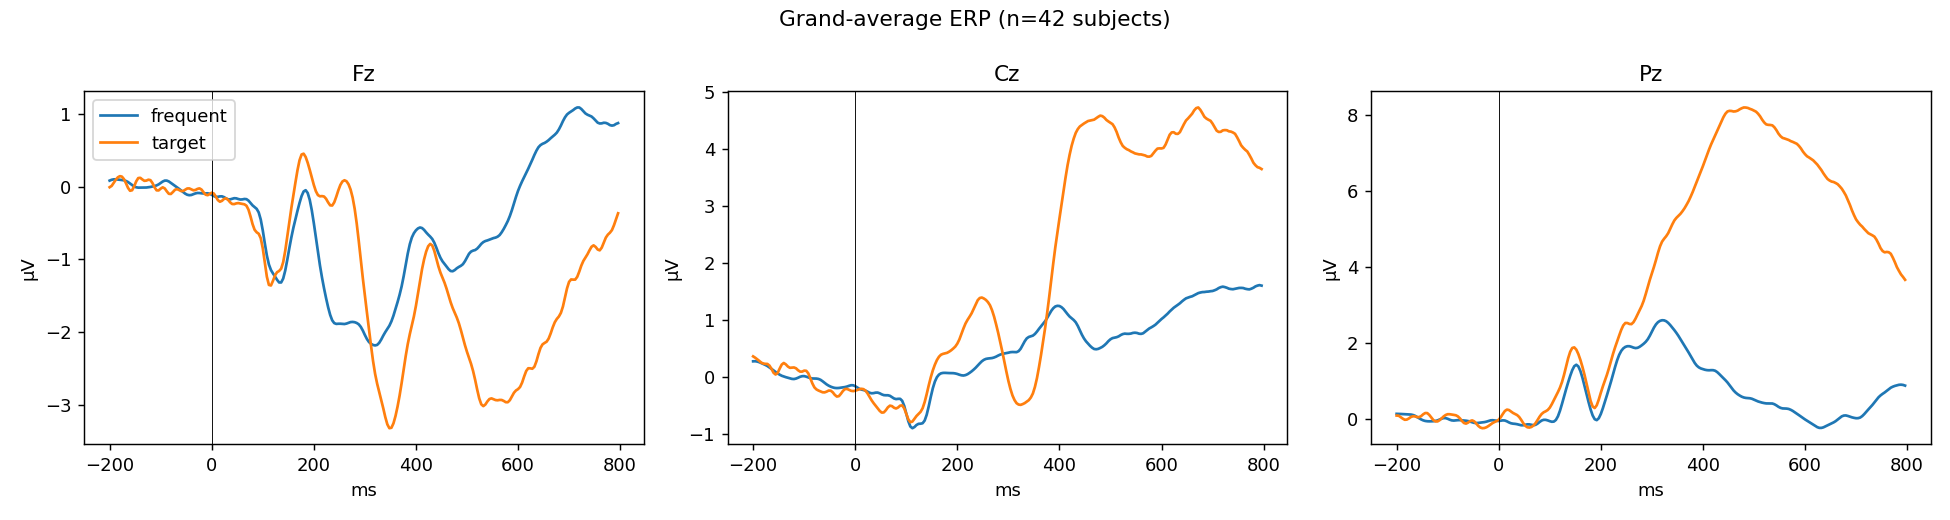
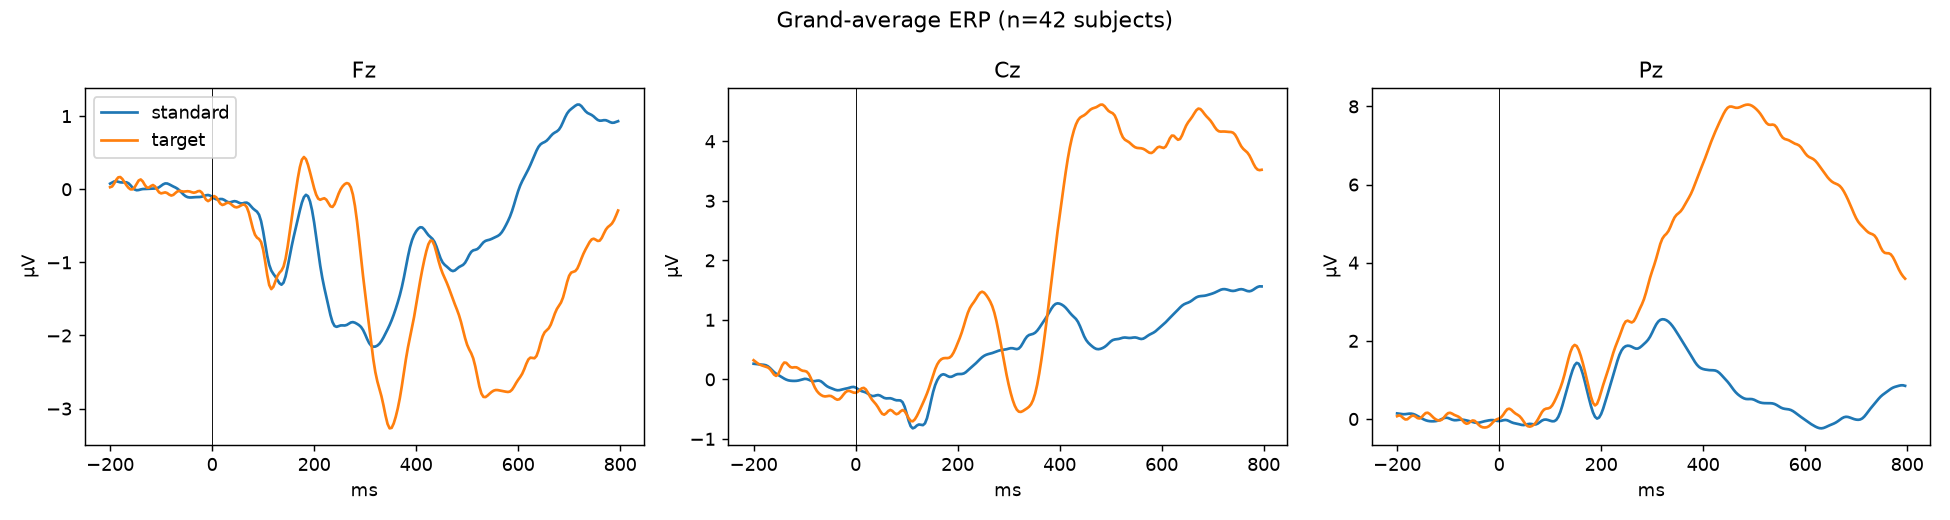
Updated the model to run exclusively on the 'target' and 'standard' sets, and added 6 metrics: ROC-AUC, Balanced Accuracy, Recall (Target), Precision (Target), Macro F1, and Accuracy.

diff --git a/src/aggregate.py b/src/aggregate.py
@@ -1,39 +1,52 @@
-"""Aggregate results -> results/summary.md + results/comparison.png"""
-import json, os, numpy as np, matplotlib; matplotlib.use("Agg"); import matplotlib.pyplot as plt
+"""Aggregate results (standard vs target) -> results/summary.md + results/comparison.png + results/summary.csv"""
+import json, os, glob, numpy as np, matplotlib; matplotlib.use("Agg"); import matplotlib.pyplot as plt
 from scipy.stats import wilcoxon
+from common import METRICS
 R = "../results/"
 def ld(f): return json.load(open(R + f)) if os.path.exists(R + f) else {}
-ml = ld("ml_within.json"); import glob
 def merge(p):
     o = {}
-    for f in glob.glob(R + p):
+    for f in sorted(glob.glob(R + p)):
         for n, d in json.load(open(f)).items(): o.setdefault(n, {}).update(d)
     return o
-dlw = merge("dl_within_*.json"); dll = merge("dl_loso_*.json")
-tab = {}   # name -> (setting) -> {sub: (ba, auc)}
+ml = ld("ml_within.json"); dlw = merge("dl_within_*.json"); dll = merge("dl_loso_*.json")
+ML_NAMES = sorted({n for d in ml.values() for n in d})
+tab = {}   # name -> setting -> {sub: {metric: value}}
 for s, d in ml.items():
     for n, v in d.items(): tab.setdefault(n, {}).setdefault("within", {})[int(s)] = v
 for setting, dd in (("within", dlw), ("LOSO", dll)):
     for n, d in dd.items():
         for s, v in d.items(): tab.setdefault(n, {}).setdefault(setting, {})[int(s)] = v
-lines = ["| Model | Setting | N | Balanced acc (mean±SD) | AUC (mean±SD) |", "|---|---|---|---|---|"]
+def arr(r, m): return np.array([v[m] for v in r.values()])
+
+lines = ["| Model | Type | Setting | N | " + " | ".join(METRICS) + " |", "|---|---|---|---|" + "---|" * len(METRICS)]
+csv = ["model,type,setting,n," + ",".join(f"{m} mean,{m} sd" for m in METRICS)]
 for n, d in tab.items():
     for st, r in d.items():
-        a = np.array(list(r.values())); lines.append(f"| {n} | {st} | {len(a)} | {a[:,0].mean():.3f} ± {a[:,0].std():.3f} | {a[:,1].mean():.3f} ± {a[:,1].std():.3f} |")
+        typ = "ML" if n in ML_NAMES else "DL"
+        lines.append(f"| {n} | {typ} | {st} | {len(r)} | " + " | ".join(f"{arr(r,m).mean():.3f} ± {arr(r,m).std():.3f}" for m in METRICS) + " |")
+        csv.append(f"{n},{typ},{st},{len(r)}," + ",".join(f"{arr(r,m).mean():.4f},{arr(r,m).std():.4f}" for m in METRICS))
 within = {n: d["within"] for n, d in tab.items() if "within" in d}
-if within:
-    best_ml = max([n for n in within if n in (ml[next(iter(ml))] if ml else {})], key=lambda n: np.mean([v[1] for v in within[n].values()]), default=None)
-    best_dl = max([n for n in within if n in dlw], key=lambda n: np.mean([v[1] for v in within[n].values()]), default=None)
-    lines += ["", f"Best ML (within, AUC): {best_ml}; best DL (within, AUC): {best_dl}"]
-    if best_ml and best_dl:
-        s = sorted(set(within[best_ml]) & set(within[best_dl]))
-        for k, m in ((0, "balanced acc"), (1, "AUC")):
-            a = [within[best_dl][i][k] for i in s]; b = [within[best_ml][i][k] for i in s]
-            lines.append(f"Wilcoxon {best_dl} vs {best_ml} ({m}, n={len(s)}): mean diff {np.mean(a)-np.mean(b):+.3f}, p={wilcoxon(a, b).pvalue:.4g}")
-open(R + "summary.md", "w").write("\n".join(lines)); print("\n".join(lines))
-fig, ax = plt.subplots(figsize=(10, 4)); i = 0; ticks = []
-for n, d in tab.items():
-    for st, r in d.items():
-        v = [x[1] for x in r.values()]; ax.boxplot(v, positions=[i], widths=.6, showfliers=False); ticks.append(f"{n}\n{st}"); i += 1
-ax.set_xticks(range(i)); ax.set_xticklabels(ticks, fontsize=6, rotation=45); ax.set_ylabel("AUC per subject"); ax.axhline(.5, c="gray", ls=":")
-plt.tight_layout(); plt.savefig(R + "comparison.png", dpi=130)
+auc = lambda n: arr(within[n], "ROC-AUC").mean()
+best_ml = max([n for n in within if n in ML_NAMES], key=auc, default=None)
+best_dl = max([n for n in within if n not in ML_NAMES], key=auc, default=None)
+lines += ["", f"Best ML (within, ROC-AUC): {best_ml}; best DL (within, ROC-AUC): {best_dl}", ""]
+if best_ml and best_dl:
+    s = sorted(set(within[best_ml]) & set(within[best_dl]))
+    lines += [f"Wilcoxon signed-rank, {best_dl} vs {best_ml} (n={len(s)} subjects):", "",
+              "| Metric | mean diff (DL - ML) | p |", "|---|---|---|"]
+    for m in METRICS:
+        a = [within[best_dl][i][m] for i in s]; b = [within[best_ml][i][m] for i in s]
+        try: p = f"{wilcoxon(a, b).pvalue:.3g}"
+        except ValueError: p = "n/a"
+        lines.append(f"| {m} | {np.mean(a)-np.mean(b):+.3f} | {p} |")
+open(R + "summary.md", "w", encoding="utf-8").write("\n".join(lines) + "\n")
+open(R + "summary.csv", "w", encoding="utf-8").write("\n".join(csv) + "\n"); print("\n".join(lines))
+
+fig, axs = plt.subplots(2, 3, figsize=(16, 8)); keys = [(n, st) for n, d in tab.items() for st in d]
+for ax, m in zip(axs.ravel(), METRICS):
+    ax.boxplot([arr(tab[n][st], m) for n, st in keys], showfliers=False)
+    ax.set_xticks(range(1, len(keys) + 1)); ax.set_xticklabels([f"{n}" + ("" if st == "within" else f"\n{st}") for n, st in keys], fontsize=7, rotation=45, ha="right")
+    ax.set_title(m); ax.grid(axis="y", alpha=.3)
+    if m in ("ROC-AUC", "Balanced Accuracy"): ax.axhline(.5, c="gray", ls=":")
+plt.suptitle("Standard vs Target, within-subject 5-fold CV (per-subject distribution)"); plt.tight_layout(); plt.savefig(R + "comparison.png", dpi=130)

diff --git a/src/preprocess.py b/src/preprocess.py
@@ -1,37 +1,48 @@
 """Preprocess one subject of the oddball task -> epochs npz.
-Pipeline: load BrainVision -> notch 50 Hz -> band-pass 0.1-40 Hz -> avg reference
--> ICA (eye-blink removal, Fp1/Fp2 as EOG proxy) -> epoch [-0.2, 0.8] s, baseline [-0.2,0]
--> resample to 250 Hz.  Labels: 0=standard(frequent) 1=target 2=deviant.
+Pipeline: load BrainVision -> notch 50 Hz -> band-pass 0.1-40 Hz -> resample 250 Hz -> avg reference
+-> ICA (eye-blink removal, Fp1/Fp2 as EOG proxy) -> epoch [-0.2, 0.8] s, baseline [-0.2, 0].
+Labels: 0=standard (S 5), 1=target (S 6), 2=deviant (S 7). Deviant is stored but discarded in common.load,
+so every model is trained/evaluated on standard vs target only.
+(Resampling is done on the continuous data, after the 40 Hz low-pass, to keep RAM usage low.)
 Usage: python preprocess.py SUBJ [SUBJ ...]
+Paths: env EEG_RAW (BIDS root containing sub-XX/eeg/) and EEG_EPOCHS (output folder).
 """
 import sys, os, numpy as np, mne
 mne.set_log_level("WARNING")
-RAW = r"D:\tttk_data\oddball"; OUT = r"D:\tttk_data\epochs"; os.makedirs(OUT, exist_ok=True)
+HERE = os.path.dirname(os.path.abspath(__file__))
+RAW = os.environ.get("EEG_RAW", os.path.join(HERE, "..", "data", "kaggle", "datasets", "trungdttik55",
+                                             "nencki-symfonia-eeg-oddball", "versions", "2", "data"))
+OUT = os.environ.get("EEG_EPOCHS", os.path.join(HERE, "..", "data", "epochs")); os.makedirs(OUT, exist_ok=True)
 EVID = {"Stimulus/S  5": 0, "Stimulus/S  6": 1, "Stimulus/S  7": 2}
+
+def vhdr_path(s):
+    for p in (os.path.join(RAW, s, "eeg", f"{s}_task-oddball_eeg.vhdr"), os.path.join(RAW, s, f"{s}_task-oddball_eeg.vhdr")):
+        if os.path.exists(p): return p
+    raise FileNotFoundError(s)
 
 def run(sub, ica=True):
     s = f"sub-{sub:02d}"
-    raw = mne.io.read_raw_brainvision(f"{RAW}\{s}\{s}_task-oddball_eeg.vhdr", preload=True)
+    raw = mne.io.read_raw_brainvision(vhdr_path(s), preload=True)
     raw.set_montage(mne.channels.make_standard_montage("standard_1005"), on_missing="ignore")
     raw.notch_filter(50.0)
     raw.filter(0.1, 40.0, verbose=False)
+    raw.resample(250)
     raw.set_eeg_reference("average")
     n_ica = 0
     if ica:
         f1 = raw.copy().filter(1.0, None)
-        f1.resample(250)
         m = mne.preprocessing.ICA(n_components=30, method="fastica", random_state=0, max_iter=500)
         m.fit(f1)
         eog = [c for c in ("Fp1", "Fp2") if c in raw.ch_names]
         bad, _ = m.find_bads_eog(f1, ch_name=eog, threshold=3.0)
-        m.exclude = bad; n_ica = len(bad)
+        m.exclude = bad; n_ica = len(bad); del f1
         raw = m.apply(raw)
     ev, ed = mne.events_from_annotations(raw, event_id=EVID)
-    ep = mne.Epochs(raw, ev, ed, tmin=-0.2, tmax=0.8, baseline=(-0.2, 0), preload=True, reject=None)
-    ep.resample(250)
-    X = ep.get_data().astype(np.float32); y = np.array([{0:0,1:1,2:2}[k] for k in ep.events[:, 2]])
-    # map ids back: ed values are already 0/1/2
-    np.savez_compressed(f"{OUT}\{s}.npz", X=X, y=y, ch=np.array(raw.ch_names), sfreq=250, tmin=-0.2, n_ica=n_ica)
+    ep = mne.Epochs(raw, ev, ed, tmin=-0.2, tmax=0.8 - 1 / 250, baseline=(-0.2, 0), preload=True, reject=None)
+    X = ep.get_data().astype(np.float32); y = ep.events[:, 2].astype(int)
+    tmp = os.path.join(OUT, f"tmp_{s}.npz")      # atomic write: readers never see a partial file
+    np.savez_compressed(tmp, X=X, y=y, ch=np.array(raw.ch_names), sfreq=250, tmin=-0.2, n_ica=n_ica)
+    os.replace(tmp, os.path.join(OUT, f"{s}.npz"))
     print(s, X.shape, np.bincount(y), "ICA excluded:", n_ica, flush=True)
 
 if __name__ == "__main__":

diff --git a/src/common.py b/src/common.py
@@ -1,9 +1,31 @@
 import numpy as np, glob, os
-EP = r"D:\tttk_data\epochs"
+from sklearn.metrics import (roc_auc_score, balanced_accuracy_score, recall_score,
+                             precision_score, f1_score, accuracy_score)
+# epochs folder; override with env var EEG_EPOCHS
+EP = os.environ.get("EEG_EPOCHS", os.path.join(os.path.dirname(os.path.abspath(__file__)), "..", "data", "epochs"))
+CLASSES = {0: "standard", 1: "target"}   # only these two stimuli are used; deviant (2) is discarded
+METRICS = ["ROC-AUC", "Balanced Accuracy", "Recall Target", "Precision Target", "Macro F1", "Accuracy"]
+
 def load(sub):
-    d = np.load(f"{EP}\sub-{sub:02d}.npz")
+    d = np.load(os.path.join(EP, f"sub-{sub:02d}.npz"))
     X, y = d["X"], d["y"]
-    k = y != 2                       # frequent (0) vs target (1); drop deviant
-    return X[k], y[k], list(d["ch"]), float(d["sfreq"]), float(d["tmin"])
+    k = np.isin(y, (0, 1))           # keep standard (0) and target (1) only
+    X, y = X[k], y[k].astype(int)
+    assert set(np.unique(y)) == {0, 1}, f"sub-{sub:02d}: unexpected labels {np.unique(y)}"
+    return X, y, list(d["ch"]), float(d["sfreq"]), float(d["tmin"])
+
 def subjects():
-    return sorted(int(os.path.basename(p)[4:6]) for p in glob.glob(EP + "\sub-*.npz"))
+    return sorted(int(os.path.basename(p)[4:6]) for p in glob.glob(os.path.join(EP, "sub-*.npz")))
+
+def metrics(y, p, thr=.5):
+    """y: true labels (1 = target), p: predicted probability of target."""
+    yh = (np.asarray(p) > thr).astype(int)
+    return {"ROC-AUC": roc_auc_score(y, p),
+            "Balanced Accuracy": balanced_accuracy_score(y, yh),
+            "Recall Target": recall_score(y, yh, pos_label=1, zero_division=0),
+            "Precision Target": precision_score(y, yh, pos_label=1, zero_division=0),
+            "Macro F1": f1_score(y, yh, average="macro", zero_division=0),
+            "Accuracy": accuracy_score(y, yh)}
+
+def mean_metrics(rows):
+    return {m: float(np.mean([r[m] for r in rows])) for m in METRICS}

diff --git a/src/pipeline_kaggle.py b/src/pipeline_kaggle.py
@@ -1,0 +1,29 @@
+"""Download the Kaggle mirror of the Nencki-Symfonia oddball data (public, kagglehub, no login needed)
+and preprocess each subject as soon as its files are complete (download runs ahead in a thread).
+Usage: python pipeline_kaggle.py [subjects...]     (default: 1..42)"""
+import os, sys, threading, queue, subprocess
+HERE = os.path.dirname(os.path.abspath(__file__))
+os.environ.setdefault("KAGGLEHUB_CACHE", os.path.join(HERE, "..", "data", "kaggle"))
+import kagglehub
+DS = "trungdttik55/nencki-symfonia-eeg-oddball"
+EP = os.environ.get("EEG_EPOCHS", os.path.join(HERE, "..", "data", "epochs"))
+subs = [int(a) for a in sys.argv[1:]] or list(range(1, 43))
+todo = [s for s in subs if not os.path.exists(os.path.join(EP, f"sub-{s:02d}.npz"))]
+q = queue.Queue(maxsize=2)          # at most 2 subjects downloaded ahead of preprocessing
+
+def downloader():
+    for s in todo:
+        for ext in ("eeg.vhdr", "eeg.vmrk", "events.tsv", "eeg.eeg"):
+            p = f"data/sub-{s:02d}/eeg/sub-{s:02d}_task-oddball_{ext}"
+            for attempt in range(5):
+                try: kagglehub.dataset_download(DS, path=p); break
+                except Exception as e: print("retry", p, e, flush=True)
+            else: raise SystemExit(f"failed {p}")
+        print("downloaded", s, flush=True); q.put(s)
+    q.put(None)
+
+threading.Thread(target=downloader, daemon=True).start()
+while (s := q.get()) is not None:
+    r = subprocess.run([sys.executable, os.path.join(HERE, "preprocess.py"), str(s)])
+    if r.returncode: print("PREPROCESS FAILED", s, flush=True)
+print("ALL PREPROCESSED", flush=True)

diff --git a/src/dl.py b/src/dl.py
@@ -39,12 +39,12 @@ def fit_predict(name, Xtr, ytr, Xte, epochs=40, lr=1e-3, seed=0):
         if s > best: best, bst = s, copy.deepcopy(model.state_dict())
     model.load_state_dict(bst)
     return prob(model, T(Xte)), model
-def score(y, p): return balanced_accuracy_score(y, p > .5), roc_auc_score(y, p)
+def score(y, p): return {k: float(v) for k, v in metrics(y, p).items()}
 def within(name, sub):
     X, y, *_ = load(sub); r = []
     for tr, te in StratifiedKFold(5, shuffle=True, random_state=0).split(X, y):
-        p, _ = fit_predict(name, X[tr], y[tr], X[te]); r.append(score(y[te], p))
-    return tuple(np.mean(r, 0))
+        p, _ = fit_predict(name, X[tr], y[tr], X[te]); r.append(metrics(y[te], p))
+    return mean_metrics(r)
 def loso(name, test, subs):
     d = {s: load(s) for s in subs}
     Xtr = np.concatenate([d[s][0] for s in subs if s != test]); ytr = np.concatenate([d[s][1] for s in subs if s != test])
@@ -57,5 +57,5 @@ if __name__ == "__main__":
         for s in subs:
             if str(s) in res.get(n, {}): continue
             res.setdefault(n, {})[str(s)] = within(n, s) if mode == "within" else loso(n, s, subjects())
-            print(mode, n, s, tuple(round(float(v), 3) for v in res[n][str(s)]), flush=True)
+            print(mode, n, s, {k: round(v, 3) for k, v in res[n][str(s)].items()}, flush=True)
             json.dump(res, open(F, "w"))

diff --git a/src/ml_baseline.py b/src/ml_baseline.py
@@ -44,16 +44,17 @@ MODELS = {
 def evaluate(sub, names=MODELS):
     X, y, *_ = load(sub); X = X.astype(np.float64); out = {}
     for n in names:
-        ba, auc = [], []
+        rows = []
         for tr, te in StratifiedKFold(5, shuffle=True, random_state=0).split(X, y):
             m = MODELS[n]().fit(X[tr], y[tr]); p = m.predict_proba(X[te])[:, 1]
-            ba.append(balanced_accuracy_score(y[te], p > .5)); auc.append(roc_auc_score(y[te], p))
-        out[n] = (float(np.mean(ba)), float(np.mean(auc)))
+            rows.append(metrics(y[te], p))
+        out[n] = mean_metrics(rows)
     return out
 if __name__ == "__main__":
     subs = [int(a) for a in sys.argv[1:]] or subjects()
     import os; F = "../results/ml_within.json"; res = json.load(open(F)) if os.path.exists(F) else {}
     for s in subs:
         if str(s) in res: continue
-        res[str(s)] = evaluate(s); print(s, {k: tuple(round(v, 3) for v in x) for k, x in res[str(s)].items()}, flush=True)
+        res[str(s)] = evaluate(s)
+        print(s, {k: (round(x["ROC-AUC"], 3), round(x["Balanced Accuracy"], 3)) for k, x in res[str(s)].items()}, flush=True)
         json.dump(res, open("../results/ml_within.json", "w"))

diff --git a/src/run_all.py b/src/run_all.py
@@ -1,0 +1,18 @@
+"""Run everything (standard vs target only) and keep resuming until all 42 subjects are evaluated.
+Can be started while pipeline_kaggle.py is still preprocessing: each pass picks up newly finished subjects.
+Usage (from src/): python run_all.py"""
+import subprocess, sys, time, os
+from common import subjects
+N, MODELS = 42, ["EEGNet", "Shallow", "Deep4", "Inception", "Conformer"]
+R = os.path.join("..", "results"); os.makedirs(R, exist_ok=True)
+def run(args, log):
+    with open(os.path.join(R, log), "a", encoding="utf-8") as f:
+        subprocess.run([sys.executable, "-u"] + args, stdout=f, stderr=subprocess.STDOUT)
+while True:
+    n = len(subjects()); print(time.strftime("%H:%M"), "pass with", n, "subjects", flush=True)
+    run(["ml_baseline.py"], "ml.log")
+    for m in MODELS: run(["dl.py", "within", m], "dl_within.log")
+    if n >= N: break
+    while len(subjects()) == n: time.sleep(60)
+run(["erp_plot.py"], "erp.log"); run(["aggregate.py"], "aggregate.log")
+print("ALLDONE", flush=True)

diff --git a/src/erp_plot.py b/src/erp_plot.py
@@ -9,7 +9,7 @@ g = {c: np.mean(R[c], 0) for c in R}
 fig, ax = plt.subplots(1, 3, figsize=(15, 4))
 for i, name in enumerate(["Fz", "Cz", "Pz"]):
     j = ch.index(name)
-    for c, lab in ((0, "frequent"), (1, "target")): ax[i].plot(t * 1e3, g[c][j] * 1e6, label=lab)
+    for c, lab in ((0, "standard"), (1, "target")): ax[i].plot(t * 1e3, g[c][j] * 1e6, label=lab)
     ax[i].axvline(0, c="k", lw=.5); ax[i].set_title(name); ax[i].set_xlabel("ms"); ax[i].set_ylabel("µV")
 ax[0].legend(); plt.suptitle(f"Grand-average ERP (n={len(subs)} subjects)"); plt.tight_layout()
 plt.savefig("../results/erp.png", dpi=130)

diff --git a/report.md b/report.md
@@ -1,0 +1,81 @@
+# Báo cáo: Phân loại đơn thử EEG – kích thích **Standard vs Target** (Nencki-Symfonia, oddball 3 kích thích)
+
+
+## 1. Mục tiêu
+Phân loại từng thử (single-trial) EEG thành **standard** hoặc **target** trong oddball.
+So với phiên bản trước, lần này:
+- **Chỉ dùng 2 loại kích thích standard và target.** Deviant/distractor bị loại khỏi toàn bộ huấn luyện và đánh giá; nhãn được kiểm tra chặt trong `common.load`.
+- Báo cáo đủ **6 chỉ số**: ROC-AUC, Balanced Accuracy, Recall Target, Precision Target, Macro F1, Accuracy.
+- Chạy lại **toàn bộ 10 mô hình**: 5 ML và 5 DL.
+
+## 2. Dữ liệu
+- Nguồn: Nencki-Symfonia EEG/ERP (GigaDB 100990, Dzianok et al., *GigaScience* 2022), bản mirror trên Kaggle `trungdttik55/nencki-symfonia-eeg-oddball` (định dạng BIDS, BrainVision).
+- 42 người tham gia, 127 kênh, tần số lấy mẫu 1000 Hz.
+- Mã sự kiện: `S 5` = standard, `S 6` = target, `S 7` = deviant (bỏ).
+- Mỗi người thường có **498 standard + 81 target** (tỉ lệ ≈ 6,1 : 1). Ngoại lệ: sub-23 có 517/86, sub-24 có 497/81, sub-37 có 497/81, sub-38 có 583/96.
+
+## 3. Tiền xử lý (`src/preprocess.py`)
+1. Lọc chặn 50 Hz, lọc thông dải 0,1–40 Hz.
+2. Hạ mẫu xuống 250 Hz. Bước này làm trên dữ liệu liên tục, sau bộ lọc 40 Hz, để tiết kiệm RAM.
+3. Tham chiếu trung bình (average reference).
+4. ICA (FastICA, 30 thành phần, fit trên bản lọc ≥ 1 Hz). Thành phần chớp mắt được phát hiện theo tương quan với Fp1/Fp2 và loại bỏ; trung bình khoảng 2 thành phần mỗi người.
+5. Cắt epoch −200…796 ms (250 mẫu), hiệu chỉnh baseline −200…0 ms.
+
+ERP trung bình toàn nhóm (n = 42) cho thấy rõ sóng **P300** với target ở vùng đỉnh–trung tâm. Ở Pz, chênh lệch target − standard trong cửa sổ 300–500 ms là **+4,97 µV**.
+
+![ERP](results/erp.png)
+
+## 4. Mô hình
+| Nhóm | Mô hình | Đầu vào / đặc trưng |
+|---|---|---|
+| ML | LDA (shrinkage) | Biên độ trung bình theo các cửa sổ 50 ms (0–800 ms) × 127 kênh, chuẩn hoá z |
+| ML | SVM-RBF (class_weight=balanced) | như trên |
+| ML | Logistic Regression L2 (C=0,01, balanced) | như trên |
+| ML | Random Forest (300 cây, balanced) | như trên |
+| ML | xDAWN + Riemann (tangent space) + LR | PCA không gian 60 chiều → xDAWN covariance (4 bộ lọc) → tangent space |
+| DL | EEGNet, ShallowFBCSPNet, Deep4Net, EEG-Inception-ERP, EEG-Conformer (braindecode 2.0) | Tín hiệu thô đã z-score theo kênh; AdamW (lr 1e-3), 40 epoch, cross-entropy có trọng số lớp, chọn epoch theo AUC trên 15% tập validation tách từ tập huấn luyện |
+
+**Giao thức đánh giá:** trong từng người (*within-subject*), Stratified 5-fold CV (seed 0). Các chỉ số được tính trên từng fold, lấy trung bình 5 fold cho mỗi người, rồi báo cáo mean ± SD trên 42 người. Ngưỡng quyết định là **0,5** trên xác suất target. Lớp dương (positive class) cho Recall/Precision là **target**.
+
+## 5. Kết quả (n = 42 người, mean ± SD)
+
+| Mô hình | Loại | ROC-AUC | Balanced Acc | Recall Target | Precision Target | Macro F1 | Accuracy |
+|---|---|---|---|---|---|---|---|
+| **xDAWN+Riemann+LR** | ML | **0,964 ± 0,063** | **0,905 ± 0,075** | 0,841 ± 0,125 | 0,827 ± 0,141 | **0,900 ± 0,078** | **0,951 ± 0,040** |
+| LDA (shrink) | ML | 0,959 ± 0,056 | 0,895 ± 0,077 | 0,817 ± 0,133 | 0,839 ± 0,136 | 0,897 ± 0,078 | **0,951 ± 0,037** |
+| LogReg-L2 | ML | 0,952 ± 0,055 | 0,892 ± 0,070 | 0,833 ± 0,108 | 0,755 ± 0,141 | 0,874 ± 0,076 | 0,934 ± 0,044 |
+| SVM-RBF | ML | 0,946 ± 0,062 | 0,831 ± 0,097 | 0,680 ± 0,193 | **0,842 ± 0,125** | 0,853 ± 0,096 | 0,940 ± 0,029 |
+| Random Forest | ML | 0,924 ± 0,065 | 0,767 ± 0,094 | 0,553 ± 0,190 | 0,821 ± 0,104 | 0,797 ± 0,093 | 0,921 ± 0,026 |
+| **EEGNet** | DL | 0,955 ± 0,053 | 0,896 ± 0,063 | 0,863 ± 0,088 | 0,707 ± 0,131 | 0,859 ± 0,074 | 0,919 ± 0,051 |
+| EEG-Inception | DL | 0,952 ± 0,058 | 0,894 ± 0,068 | **0,885 ± 0,091** | 0,648 ± 0,141 | 0,837 ± 0,082 | 0,900 ± 0,062 |
+| EEG-Conformer | DL | 0,933 ± 0,069 | 0,860 ± 0,081 | 0,823 ± 0,119 | 0,608 ± 0,147 | 0,808 ± 0,086 | 0,887 ± 0,059 |
+| Deep4Net | DL | 0,932 ± 0,071 | 0,866 ± 0,076 | 0,869 ± 0,098 | 0,558 ± 0,137 | 0,789 ± 0,088 | 0,864 ± 0,072 |
+| ShallowFBCSPNet | DL | 0,920 ± 0,094 | 0,837 ± 0,109 | 0,733 ± 0,193 | 0,689 ± 0,170 | 0,823 ± 0,103 | 0,911 ± 0,052 |
+
+*Mốc tham chiếu:* luôn đoán "standard" cho Accuracy ≈ 0,86, Balanced Accuracy = 0,5, Recall Target = 0. Vì vậy với dữ liệu mất cân bằng này, Accuracy là chỉ số kém tin cậy nhất.
+
+![So sánh 6 chỉ số](results/comparison.png)
+
+### Kiểm định thống kê
+- **Friedman** trên ROC-AUC theo từng người, 10 mô hình: p = 3·10⁻⁴². Các mô hình khác nhau có ý nghĩa thống kê.
+- **Hạng trung bình theo AUC** (1 = tốt nhất): xDAWN+Riemann 1,95 · LDA 2,95 · EEGNet 4,05 · LogReg 4,33 · Inception 4,69 · SVM 5,33 · Conformer 7,38 · Shallow 7,71 · Deep4 7,79 · RF 8,81.
+- **Wilcoxon signed-rank**, so sánh DL tốt nhất (EEGNet) với ML tốt nhất (xDAWN+Riemann+LR), n = 42:
+
+| Chỉ số | Chênh lệch TB (EEGNet − xDAWN) | p |
+|---|---|---|
+| ROC-AUC | −0,009 | 1,2·10⁻⁵ |
+| Balanced Accuracy | −0,009 | 0,0018 |
+| Recall Target | **+0,022** | 0,030 |
+| Precision Target | −0,120 | 2,0·10⁻¹¹ |
+| Macro F1 | −0,042 | 7,7·10⁻¹¹ |
+| Accuracy | −0,031 | 1,5·10⁻¹¹ |
+
+## 6. Thảo luận
+1. **Bài toán standard vs target tách biệt tốt.** 34/42 người đạt AUC ≥ 0,95 với mô hình tốt nhất của họ. Chỉ sub-07 dưới 0,8 (AUC tốt nhất 0,71); tiếp theo là sub-01 (0,84) và sub-41 (0,90). Nguyên nhân khả dĩ là P300 yếu hoặc nhiễu cao ở những người này.
+2. **ML cổ điển dựa trên ERP vẫn ngang hoặc nhỉnh hơn DL.** Mức này xảy ra khi chỉ có khoảng 460 thử huấn luyện mỗi fold. xDAWN+Riemann tốt nhất trên ROC-AUC, Balanced Accuracy, Macro F1 và Accuracy. EEGNet là DL tốt nhất, kém xDAWN khoảng 0,01 AUC; chênh lệch nhỏ nhưng có ý nghĩa thống kê. Các mạng lớn (Deep4, Conformer) và Shallow (thiết kế cho nhịp vận động, không cho ERP) kém hơn rõ rệt.
+3. **Đánh đổi Recall và Precision do cách xử lý mất cân bằng lớp, ở ngưỡng 0,5:**
+   - Các mạng DL dùng loss có trọng số lớp nên dịch về phía target. Recall Target cao (Inception 0,885; Deep4 0,869; EEGNet 0,863) nhưng Precision thấp (0,56–0,71), kéo Macro F1 và Accuracy xuống.
+   - LDA không cân bằng lớp, còn SVM/RF bảo thủ, nên Precision cao (0,82–0,84) nhưng Recall thấp hơn (RF chỉ 0,55).
+   - ROC-AUC không phụ thuộc ngưỡng, và trên chỉ số này các mô hình top gần như ngang nhau. Vì vậy phần lớn khác biệt ở Precision/F1/Accuracy đến từ **vị trí ngưỡng**, không phải từ khả năng tách lớp.
+4. **Chọn chỉ số chính:** ROC-AUC và Balanced Accuracy phản ánh đúng nhất khi lớp mất cân bằng 6:1. Accuracy cao (0,95) chỉ hơn mốc "đoán toàn standard" (0,86) khoảng 9 điểm. Nếu ứng dụng cần phát hiện target (ví dụ P300-speller, BCI) thì ưu tiên Recall; nếu cần ít báo động giả thì ưu tiên Precision. Có thể chỉnh ngưỡng theo mục tiêu.
+5. **So với lần chạy trước** (`results/v1_old/`, cũng là standard vs target): BA và AUC gần như trùng, ví dụ xDAWN 0,906/0,964 trước so với 0,905/0,964 nay, EEGNet 0,895/0,956 so với 0,896/0,955. Pipeline mới (hạ mẫu trước ICA) cho kết quả ổn định.

diff --git a/README.md b/README.md
@@ -1,14 +1,16 @@
-# Mini project: EEG single-trial classification, frequent vs target (Nencki-Symfonia oddball, GigaDB 100990)
+# Mini project: EEG single-trial classification, **standard vs target** (Nencki-Symfonia oddball, GigaDB 100990)
 
-Data: D:\tttk_data (raw oddball in oddball\, preprocessed epochs in epochs\). 42 subjects, 127 ch, 660 stimuli/subject
-(498 standard=frequent, 81 target, 81 deviant -> deviant is dropped). Epoch -200..800 ms, saved at 250 Hz -> (660,127,250).
+Data: Kaggle mirror `trungdttik55/nencki-symfonia-eeg-oddball` (BIDS). 42 subjects, 127 ch, 1000 Hz.
+Only standard (S 5) and target (S 6) are used; deviant (S 7) is discarded. Epoch -200..796 ms at 250 Hz -> (n, 127, 250).
 
 Pipeline (src/):
-  download.py       fetch raw files           preprocess.py   filter+ICA+epoch -> npz
-  pipeline_bg.py    preprocess as downloads finish
-  erp_plot.py       grand-average ERP         ml_baseline.py  LDA/SVM/LogReg/RF/xDAWN+Riemann (RQ1/RQ2)
-  dl.py             EEGNet/Shallow/Deep4/Inception/Conformer, within-subject & LOSO (RQ1/RQ2)
-  explain.py        gradient x input vs ERP (RQ3)
-Run when all subjects are ready:
-  python erp_plot.py; python ml_baseline.py; python dl.py within all; python dl.py loso all; python explain.py 1 2 3 ...
-Metrics: balanced accuracy + ROC-AUC (classes are imbalanced 6:1).
+  pipeline_kaggle.py  download (kagglehub, no login) + preprocess -> data/epochs/sub-XX.npz
+  preprocess.py       notch, 0.1-40 Hz, 250 Hz, avg-ref, ICA (blinks), epochs
+  common.py           loading (standard vs target only) + the 6 metrics
+  erp_plot.py         grand-average ERP      ml_baseline.py  LDA/SVM/LogReg/RF/xDAWN+Riemann
+  dl.py               EEGNet/Shallow/Deep4/Inception/Conformer (within & LOSO)
+  aggregate.py        summary.md / summary.csv / comparison.png
+  run_all.py          everything above, resumable
+Run:  cd src; python pipeline_kaggle.py; python run_all.py
+Metrics: ROC-AUC, Balanced Accuracy, Recall Target, Precision Target, Macro F1, Accuracy (threshold 0.5, target = positive).
+Report: report.md
